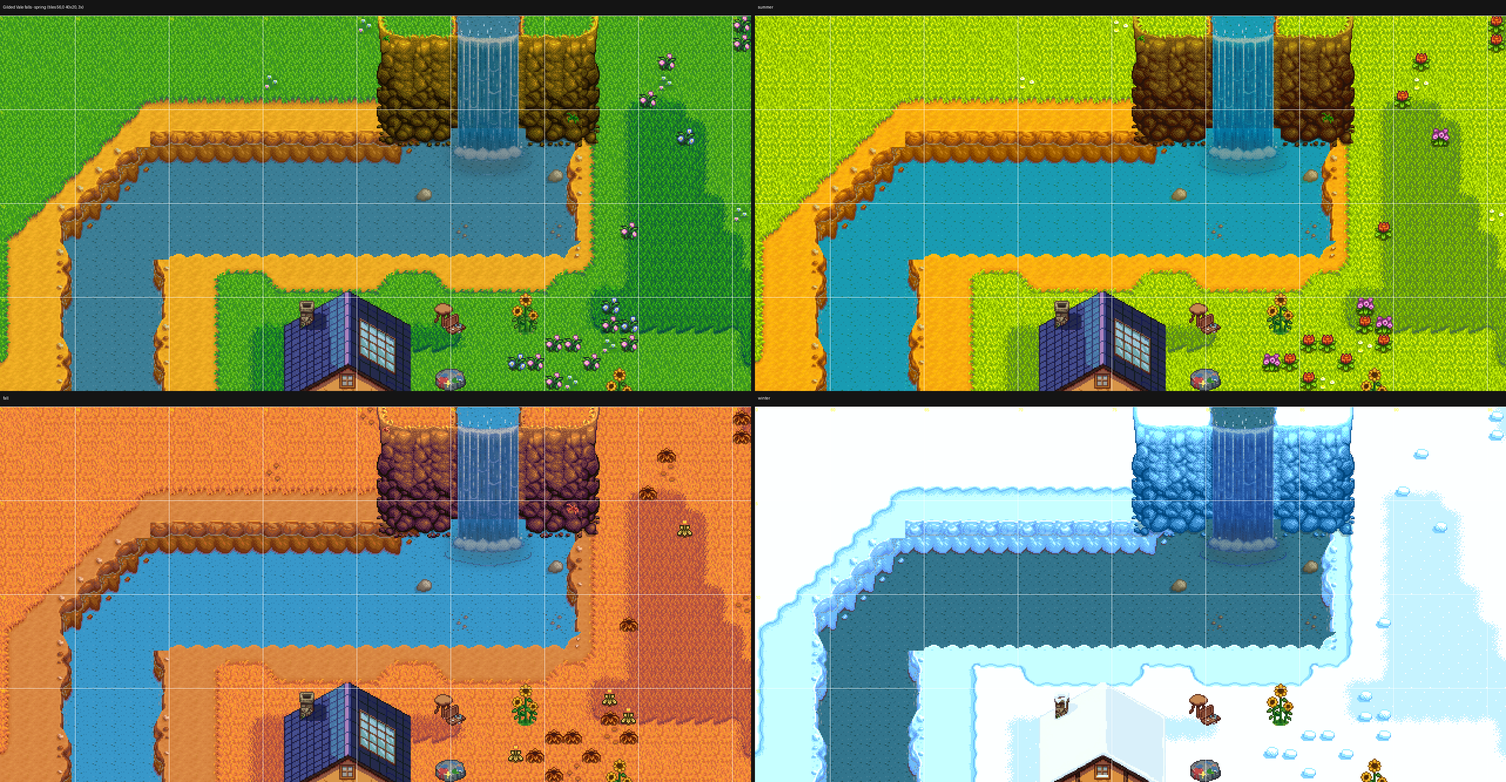
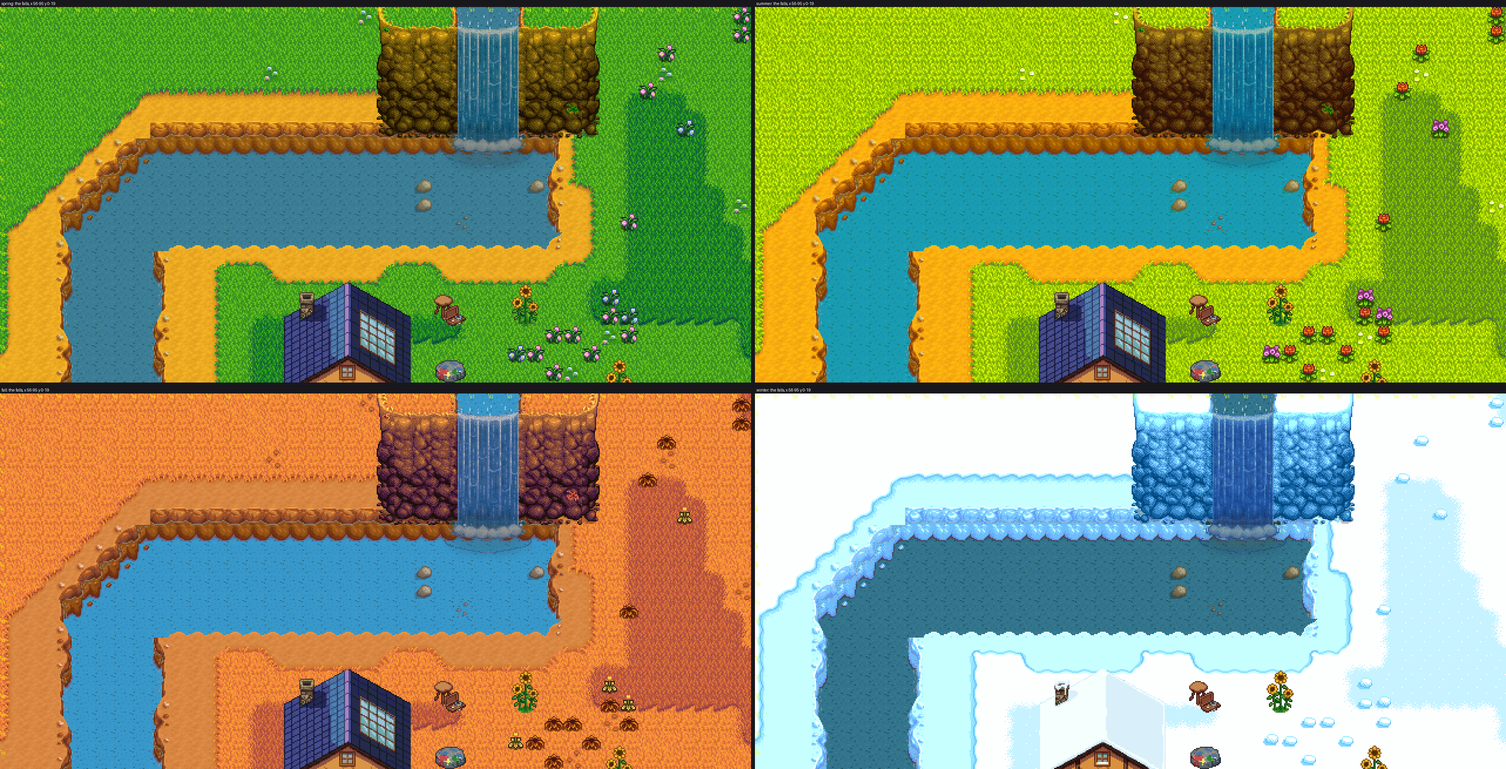
Gilded Vale winter seams: renders and what was learned
Regenerated the sculpture, falls and overlook strip renders and added
winter_seams_before_after.png (each seam before | after | vanilla). The terrain doc
gets the shadow skirt, dark grass against sand, the winter flight, the lake's
south-east corner and the bank along a cliff's foot.

diff --git a/docs/terrain_painting.md b/docs/terrain_painting.md
@@ -216,6 +216,17 @@ Read off the vanilla plateaus (Forest x 92-120 y 44-100, Railroad, Mountain, Bac
 
   Town's little raised lawn east of its stairs (x 22-24, y 40-47) has the whole north-west corner in eight tiles.
 - **De-shadowed side.** 392/417 carry a 1-2 px cast shadow down their left edge, and the face's west end a wider one. Both are laid from copies without it (`unbanded`, in our seasonal sheets). The falls' end walls had already lost theirs; a band down the side that stopped there ended in a step, and it was a grey pencil line on winter snow.
-- **The shadow under the face is dark grass to the painter** (the table reads 327 as G G / D D, and 356 and 406 as D), so its corners are D. Where the face ends, the painter's own edge pieces end the shadow, and the face's first column takes 404 on the shadow's last row (as Town (23-24,48) does). A full 406 there ended in a square edge on winter snow.
+- **The shadow under the face is dark grass to the painter** (the table reads 327 as G G / D D, and 356 and 406 as D), so its corners are D, and a row more below it. Under the Town ledge (x 26-38 y 10-12) the dark grass runs on below the shading and the painter's own edge pieces end it, wavy; in winter dark grass is pale blue, so the band fades into it instead of stopping in a straight line on the snow. Where the face ends, the same edge pieces end it. (The fade piece 404 goes plain white in winter: it made a white box beside the side's corner. A 406 band ending on snow was a ruler line.)
+- **Dark grass has no real piece against sand.** The table's D D / S S (635) is light grass with a straight sand edge, and the rest carry town-sheet overlays. Keep a corner of grass between them: a path along a face starts a row below its skirt, and a path beside a side moves out round the side's skirt. A dark-grass bulge can widen going down but not narrow again (D D / G D only comes with the lip on it).
+- **A flight in winter** gets our own copies of its tiles with snow on every tread (`snow_treads`: the treads white, their noses the snow's shaded edge, the risers bare), so it isn't a khaki flight pasted on snow. The landing above it tapers off up the bluff like a worn trail, and the ground beside its top step keeps the landing's edge rather than plain grass, so neither ends in a square corner. The terraces' flights (CLIFF_A, CLIFF_B) still have the bare look; the same copies would fix them.
+- **A lake's south-east corner** is cut on the diagonal, as the Town river's south-east shore steps (x 78-84 y 74-80: plain water on the inner tile, 261 / 214 on the diagonal, 5226 + 211 above it). Square, the corner piece left a notch.
 - **No vanilla flight climbs south.** Every flight onto higher ground climbs a south face (Railroad x 51-56, Mountain x 2-6 and x 8-11, Town x 19-22, x 73-76 and x 105-108, Forest x 4-7, Backwoods x 12-16), because the risers must face the camera. So the bluff's steps go in a south face, one level high, by our cliff rule, with our own stairs art, copied tile for tile from the lower terrace's flight (`STAIR_SPOTS[3]`). A sand landing goes above its top step and an apron below its foot, so no grass line shows. Steps climbing south through the north rim would need new PixelLab art, with nothing in the game to copy.
 - **Repainting round edges.** The table counts many rim, face and shading stacks as plain ground. So the overlook reads the corners once (`m.overlook_V`) and protects every tile an edge is laid on (`m.overlook_laid`). Otherwise a later repaint swapped a side piece for grass, and a re-read of the corners turned the shading into dark grass. A corner pattern with no plain piece is an error, because the table's only answer was a fence or a crate.
+
+## Falls: the bank along a cliff's foot (2026-11-08)
+
+- **A river under a cliff keeps its bank.** The Town pool's bank runs along the foot of its cliff and right under its falls (Town x 92-97 y 4-5: the depth row 212 on the pool's dark water 1281, the wet rock's last row on Buildings2 over it, no face row there). Ours does the same: the river's north bank runs on along the rim's foot to the basin's east side. With the water up to the face, the bank's diagonal up to it sat under the face's last row and the rock row stopped in a cut.
+- **The depth row's own pieces (185 / 212 on sand) show through falling water** as a light band; under a fall use Town's stacks.
+- **A strip of sand beside a basin shouldn't run on straight down from a cliff's edge.** The falls' east sand varies 1-2 tiles wide, with grass under the cliff's east end, and the basin's east bank sits a tile in from the cliff's end.
+- **A cliff end that runs off the map's top** is what Town's falls do at (91,0) (442 on the top row); trees stand over ours in game.
+
